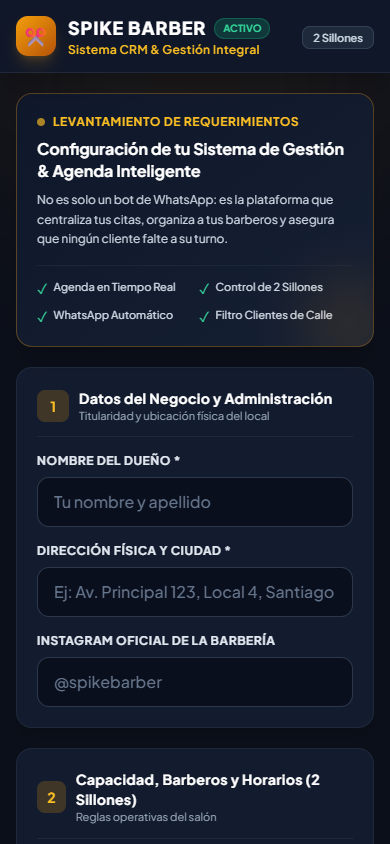
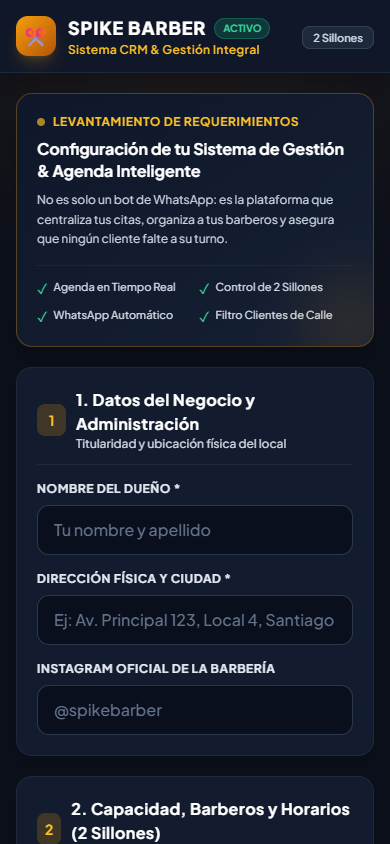
style: corregir legibilidad, aumentar tamaño de texto y contraste en subtítulos y notas

diff --git a/public/index.html b/public/index.html
@@ -96,8 +96,8 @@
         <div class="flex items-center space-x-2.5 border-b border-slate-800 pb-3">
           <div class="w-8 h-8 rounded-lg bg-amber-500/20 text-amber-400 flex items-center justify-center text-sm font-bold">1</div>
           <div>
-            <h2 class="font-bold text-white text-sm tracking-wide">Datos del Negocio y Administración</h2>
-            <p class="text-[11px] text-slate-400">Titularidad y ubicación física del local</p>
+            <h2 class="font-bold text-white text-base tracking-wide">1. Datos del Negocio y Administración</h2>
+            <p class="text-xs text-slate-300 font-medium">Titularidad y ubicación física del local</p>
           </div>
         </div>
 
@@ -125,8 +125,8 @@
         <div class="flex items-center space-x-2.5 border-b border-slate-800 pb-3">
           <div class="w-8 h-8 rounded-lg bg-amber-500/20 text-amber-400 flex items-center justify-center text-sm font-bold">2</div>
           <div>
-            <h2 class="font-bold text-white text-sm tracking-wide">Capacidad, Barberos y Horarios (2 Sillones)</h2>
-            <p class="text-[11px] text-slate-400">Reglas operativas del salón</p>
+            <h2 class="font-bold text-white text-base tracking-wide">2. Capacidad, Barberos y Horarios (2 Sillones)</h2>
+            <p class="text-xs text-slate-300 font-medium">Reglas operativas del salón</p>
           </div>
         </div>
 
@@ -195,8 +195,8 @@
         <div class="flex items-center space-x-2.5 border-b border-slate-800 pb-3">
           <div class="w-8 h-8 rounded-lg bg-amber-500/20 text-amber-400 flex items-center justify-center text-sm font-bold">3</div>
           <div>
-            <h2 class="font-bold text-white text-sm tracking-wide">Catálogo de Servicios y Precios</h2>
-            <p class="text-[11px] text-slate-400">Duración y valor para el cálculo de turnos</p>
+            <h2 class="font-bold text-white text-base tracking-wide">3. Catálogo de Servicios y Precios</h2>
+            <p class="text-xs text-slate-300 font-medium">Duración y valor para el cálculo de turnos</p>
           </div>
         </div>
 
@@ -281,8 +281,8 @@
         <div class="flex items-center space-x-2.5 border-b border-slate-800 pb-3">
           <div class="w-8 h-8 rounded-lg bg-amber-500/20 text-amber-400 flex items-center justify-center text-sm font-bold">4</div>
           <div>
-            <h2 class="font-bold text-white text-sm tracking-wide">Reglas de Reserva, Pagos y WhatsApp</h2>
-            <p class="text-[11px] text-slate-400">Automatizaciones para reducir ausentismo</p>
+            <h2 class="font-bold text-white text-base tracking-wide">Reglas de Reserva, Pagos y WhatsApp</h2>
+            <p class="text-xs text-slate-300 font-medium">Automatizaciones para reducir ausentismo</p>
           </div>
         </div>
 
@@ -327,15 +327,15 @@
         </div>
 
         <div class="pt-3 border-t border-slate-800">
-          <label class="block text-xs font-bold text-amber-400 uppercase tracking-wider mb-1.5 flex items-center space-x-1.5">
+          <label class="block text-sm font-bold text-amber-400 uppercase tracking-wider mb-2 flex items-center space-x-2">
             <span>💬 Notas o Requerimientos Adicionales</span>
-            <span class="text-[10px] text-slate-400 font-normal lowercase">(opcional)</span>
+            <span class="text-xs text-slate-300 font-normal lowercase bg-slate-800 px-2 py-0.5 rounded-md">(opcional)</span>
           </label>
-          <p class="text-[11px] text-slate-400 mb-2 leading-relaxed">
+          <p class="text-xs text-slate-200 mb-2.5 leading-relaxed font-normal">
             ¿Algún detalle de tu barbería que quieras agregar, alguna duda o algo especial que deba tener en cuenta el sistema?
           </p>
           <textarea name="notasAdicionales" rows="3" placeholder="Escribe aquí cualquier comentario adicional, regla especial o sugerencia para tu local..."
-            class="w-full bg-[#0a0f1d] border border-slate-700 rounded-xl px-4 py-3 text-xs text-white font-medium placeholder-slate-500 focus:outline-none focus:border-amber-400 shadow-inner leading-relaxed"></textarea>
+            class="w-full bg-[#0a0f1d] border border-slate-600 rounded-xl px-4 py-3 text-sm text-white font-medium placeholder-slate-400 focus:outline-none focus:border-amber-400 focus:ring-2 focus:ring-amber-400/20 shadow-inner leading-relaxed"></textarea>
         </div>
       </section>
 
